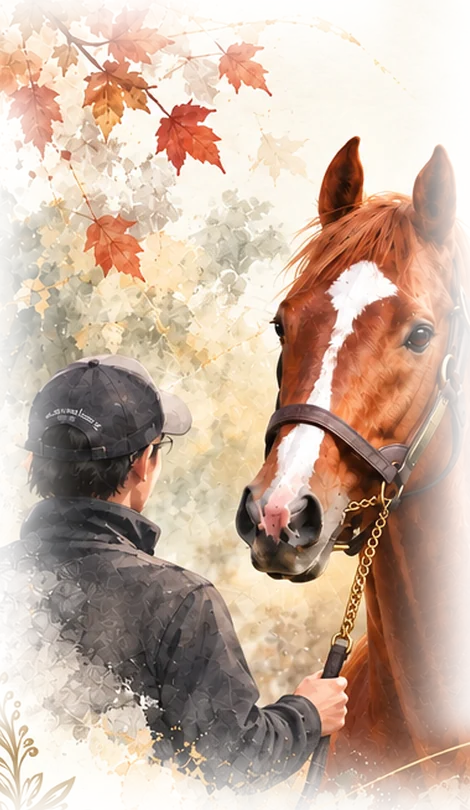
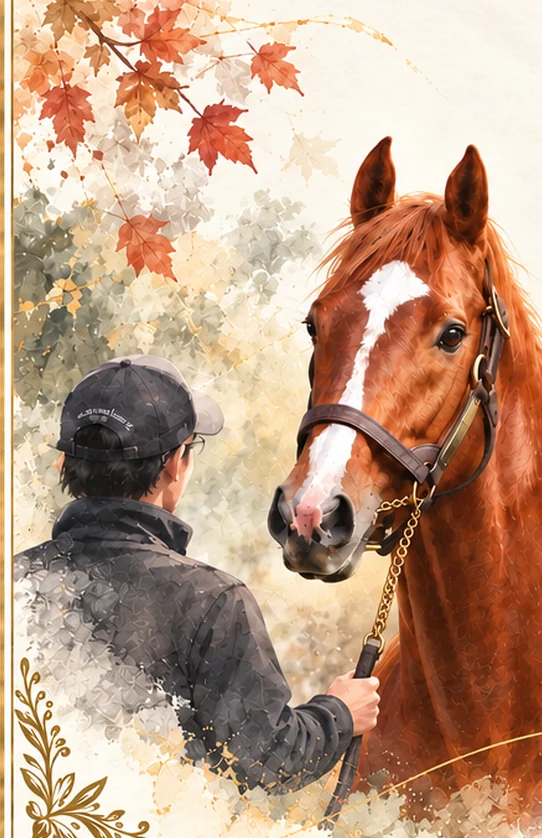
Bleed the hero art; slideshow for the paintings

diff --git a/index.html b/index.html
@@ -63,14 +63,14 @@ h1,h2,h3,p,dl,dd,figure{margin:0}
 .top span{font:300 10px var(--jps);letter-spacing:.42em;text-transform:uppercase;color:var(--sub)}
 
 /* ── 表紙 ── */
-.hero{position:relative;min-height:100svh;display:grid;grid-template-columns:46% 1fr;align-items:stretch;overflow:hidden}
+.hero{position:relative;min-height:100svh;display:grid;grid-template-columns:50% 1fr;align-items:stretch;overflow:hidden}
 .hero-art{position:relative;overflow:hidden;background:#efe7da}
 .hero-art img{width:100%;height:100%;object-fit:cover;object-position:62% 46%;transform:scale(1.06)}
 .hero-art:after{content:"";position:absolute;inset:0;
- background:linear-gradient(90deg,rgba(246,241,232,0) 55%,rgba(246,241,232,.9) 97%)}
-.hero-body{display:flex;flex-direction:column;justify-content:center;padding:120px clamp(24px,5vw,86px) 60px}
+ background:linear-gradient(90deg,rgba(247,239,224,0) 86%,rgba(247,239,224,.55) 100%)}
+.hero-body{display:flex;flex-direction:column;justify-content:center;padding:120px clamp(24px,4vw,64px) 60px}
 .eyebrow{font:300 10px var(--jps);letter-spacing:.52em;text-transform:uppercase;color:var(--sub)}
-.hero-names{font:400 clamp(58px,8.2vw,112px)/1 var(--script);color:var(--gold);margin:18px 0 0;letter-spacing:.015em}
+.hero-names{font:400 clamp(46px,6.2vw,92px)/1.05 var(--script);color:var(--gold);margin:18px 0 0;letter-spacing:.015em;white-space:nowrap}
 .hero-names em{font-style:normal;color:#bb9144}
 .hero-date{display:flex;align-items:center;gap:18px;margin:34px 0 0}
 .hero-date b{font:300 clamp(26px,3.3vw,40px) var(--serif);letter-spacing:.2em;color:var(--ink)}
@@ -86,7 +86,7 @@ h1,h2,h3,p,dl,dd,figure{margin:0}
 .btn.fill:hover{background:transparent;color:var(--ink)}
 .rail{position:absolute;right:calc(var(--gut) / 2);bottom:48px;writing-mode:vertical-rl;
  font:300 10px var(--jps);letter-spacing:.5em;text-transform:uppercase;color:var(--sub)}
-.scroll-cue{position:absolute;left:46%;bottom:28px;margin-left:46px;display:flex;align-items:center;gap:12px;
+.scroll-cue{position:absolute;left:50%;bottom:28px;margin-left:46px;display:flex;align-items:center;gap:12px;
  font:300 9px var(--jps);letter-spacing:.42em;text-transform:uppercase;color:var(--sub)}
 .scroll-cue:after{content:"";width:54px;height:1px;background:var(--line);position:relative;overflow:hidden;
  animation:cue 2.6s ease-in-out infinite}
@@ -130,11 +130,14 @@ h1,h2,h3,p,dl,dd,figure{margin:0}
 .stops b{display:block;font:400 clamp(17px,2vw,20px) var(--jp);letter-spacing:.14em}
 .stops span{display:block;margin-top:8px;font:300 10px var(--jps);letter-spacing:.34em;text-transform:uppercase;color:var(--sub)}
 
-.gallery{display:grid;grid-template-columns:repeat(2,1fr);gap:clamp(12px,2vw,22px)}
-.gallery figure{margin:0;overflow:hidden;background:#efe4d2;border:1px solid var(--line)}
-.gallery img{width:100%;aspect-ratio:4/3;object-fit:cover;transition:transform 1.4s cubic-bezier(.19,1,.22,1)}
-.gallery figure:hover img{transform:scale(1.045)}
-.gallery .g-wide img{aspect-ratio:4/3}
+.slider{position:relative;overflow:hidden;border:1px solid var(--line);background:#efe4d2;touch-action:pan-y}
+.slider:focus-visible{outline:2px solid var(--gold);outline-offset:3px}
+.slides{display:flex;transition:transform 1.1s cubic-bezier(.19,1,.22,1);will-change:transform}
+.slides figure{margin:0;flex:0 0 100%}
+.slides img{width:100%;aspect-ratio:16/10;object-fit:cover;display:block}
+.dots{display:flex;justify-content:center;gap:12px;margin-top:22px}
+.dots button{width:30px;height:2px;padding:0;border:0;background:var(--line);cursor:pointer;transition:background .4s}
+.dots button[aria-selected="true"]{background:var(--gold)}
 
 .band{height:clamp(170px,26vw,280px);background:url(scene.webp) center 72%/cover no-repeat;
  -webkit-mask-image:linear-gradient(#0000,#000 38%,#000 76%,#0000);mask-image:linear-gradient(#0000,#000 38%,#000 76%,#0000)}
@@ -197,9 +200,9 @@ footer{padding:clamp(60px,9vw,96px) 0 clamp(50px,7vw,80px);text-align:center}
 
 @media(max-width:900px){
  .hero{grid-template-columns:1fr;min-height:0}
- .hero-art{height:62svh}
+ .hero-art{height:66svh}
  .hero-art img{object-position:60% 42%}
- .hero-art:after{background:linear-gradient(180deg,rgba(246,241,232,0) 62%,rgba(246,241,232,.96) 100%)}
+ .hero-art:after{background:linear-gradient(180deg,rgba(247,239,224,0) 84%,rgba(247,239,224,.85) 100%)}
  .hero-body{padding:34px var(--gut) 70px}
  .hero-names{margin-top:12px}
  .rail,.scroll-cue{display:none}
@@ -207,7 +210,7 @@ footer{padding:clamp(60px,9vw,96px) 0 clamp(50px,7vw,80px);text-align:center}
  .facts > div{grid-template-columns:1fr;gap:6px;padding:20px 2px}
  .facts dt{padding-top:0}
  .stops{grid-template-columns:1fr}
- .gallery{grid-template-columns:1fr}
+ .slides img{aspect-ratio:4/3}
  .card{padding:34px 20px}
  .orn{width:46px;height:52px}
  .letter{font-size:14.5px;line-height:2.5;letter-spacing:.04em}
@@ -235,7 +238,7 @@ footer{padding:clamp(60px,9vw,96px) 0 clamp(50px,7vw,80px);text-align:center}
 <main id="main">
 <section class="hero">
  <figure class="hero-art">
-  <img src="horse.webp" width="470" height="810" fetchpriority="high" alt="紅葉の下で引き手に寄り添う栗毛の馬の水彩画">
+  <img src="horse.webp" width="542" height="838" fetchpriority="high" alt="紅葉の下で引き手に寄り添う栗毛の馬の水彩画">
  </figure>
  <div class="hero-body">
   <p class="eyebrow">Wedding Party</p>
@@ -308,11 +311,14 @@ footer{padding:clamp(60px,9vw,96px) 0 clamp(50px,7vw,80px);text-align:center}
 <section class="section" id="gallery">
  <div class="wrap">
   <div class="sec-head rv"><span class="sec-no">04</span><span class="sec-en">Gallery</span><i class="sec-line"></i><h2 class="sec-ja">思い出の一枚</h2></div>
-  <div class="gallery">
-   <figure class="rv g-wide"><img src="race1.webp" width="1280" height="960" loading="lazy" alt="先頭で競り合う馬群を描いた水彩画"></figure>
-   <figure class="rv"><img src="race2.webp" width="1280" height="720" loading="lazy" alt="直線を独走する栗毛の馬の水彩画"></figure>
-   <figure class="rv"><img src="race3.webp" width="1280" height="720" loading="lazy" alt="ゴール後に天を指す騎手の水彩画"></figure>
-   <figure class="rv g-wide"><img src="race4.webp" width="1280" height="960" loading="lazy" alt="秋の芝コースを駆け抜ける馬群の水彩画"></figure>
+  <div class="slider rv" id="slider" tabindex="0" aria-label="思い出の絵（左右にスワイプできます）">
+   <div class="slides" id="slides">
+    <figure><img src="race1.webp" width="1280" height="960" loading="lazy" alt="先頭で競り合う馬群を描いた水彩画"></figure>
+    <figure><img src="race2.webp" width="1280" height="720" loading="lazy" alt="直線を独走する栗毛の馬の水彩画"></figure>
+    <figure><img src="race3.webp" width="1280" height="720" loading="lazy" alt="ゴール後に天を指す騎手の水彩画"></figure>
+    <figure><img src="race4.webp" width="1280" height="960" loading="lazy" alt="秋の芝コースを駆け抜ける馬群の水彩画"></figure>
+   </div>
+   <div class="dots" id="dots" role="tablist" aria-label="絵の切り替え"></div>
   </div>
  </div>
 </section>
@@ -474,6 +480,52 @@ document.documentElement.classList.add('js-in');
  addEventListener('load', reveal);
  reveal();
  setTimeout(()=>{ if(items.length) reveal(); }, 2500);   // 念のための保険
+})();
+
+/* ── 思い出の絵：ゆっくり切り替わるスライド ── */
+(function(){
+ const box = $('#slides'), dots = $('#dots'), frame = $('#slider');
+ if(!box || !dots || !frame) return;
+ const n = box.children.length;
+ const soft = !matchMedia('(prefers-reduced-motion: reduce)').matches;
+ let cur = 0, paused = false, timer = 0;
+ for(let i = 0; i < n; i++){
+  const b = document.createElement('button');
+  b.type = 'button'; b.setAttribute('role','tab');
+  b.setAttribute('aria-label', (i + 1) + '枚目');
+  b.addEventListener('click', () => { go(i); hold(); });
+  dots.append(b);
+ }
+ function go(i){
+  cur = (i + n) % n;
+  box.style.transform = 'translateX(' + (-cur * 100) + '%)';
+  [...dots.children].forEach((d, k) => d.setAttribute('aria-selected', k === cur ? 'true' : 'false'));
+ }
+ function hold(){ paused = true; clearTimeout(timer); timer = setTimeout(() => { paused = false; }, 9000); }
+ go(0);
+
+ // 指でなぞって切り替え
+ let x0 = null;
+ frame.addEventListener('touchstart', e => { x0 = e.touches[0].clientX; paused = true; }, {passive:true});
+ frame.addEventListener('touchend', e => {
+  if(x0 === null) return;
+  const dx = e.changedTouches[0].clientX - x0; x0 = null;
+  if(Math.abs(dx) > 40) go(cur + (dx < 0 ? 1 : -1));
+  hold();
+ }, {passive:true});
+ frame.addEventListener('keydown', e => {
+  if(e.key === 'ArrowRight'){ go(cur + 1); hold(); }
+  if(e.key === 'ArrowLeft'){ go(cur - 1); hold(); }
+ });
+ frame.addEventListener('pointerenter', () => { paused = true; });
+ frame.addEventListener('pointerleave', () => { paused = false; });
+
+ if(soft) setInterval(() => {
+  if(paused || document.hidden) return;
+  const r = frame.getBoundingClientRect();
+  if(r.bottom < 0 || r.top > innerHeight) return;   // 画面にないときは動かさない
+  go(cur + 1);
+ }, 5200);
 })();
 
 /* ── お返事（Googleフォームへ引き継ぐ） ── */
